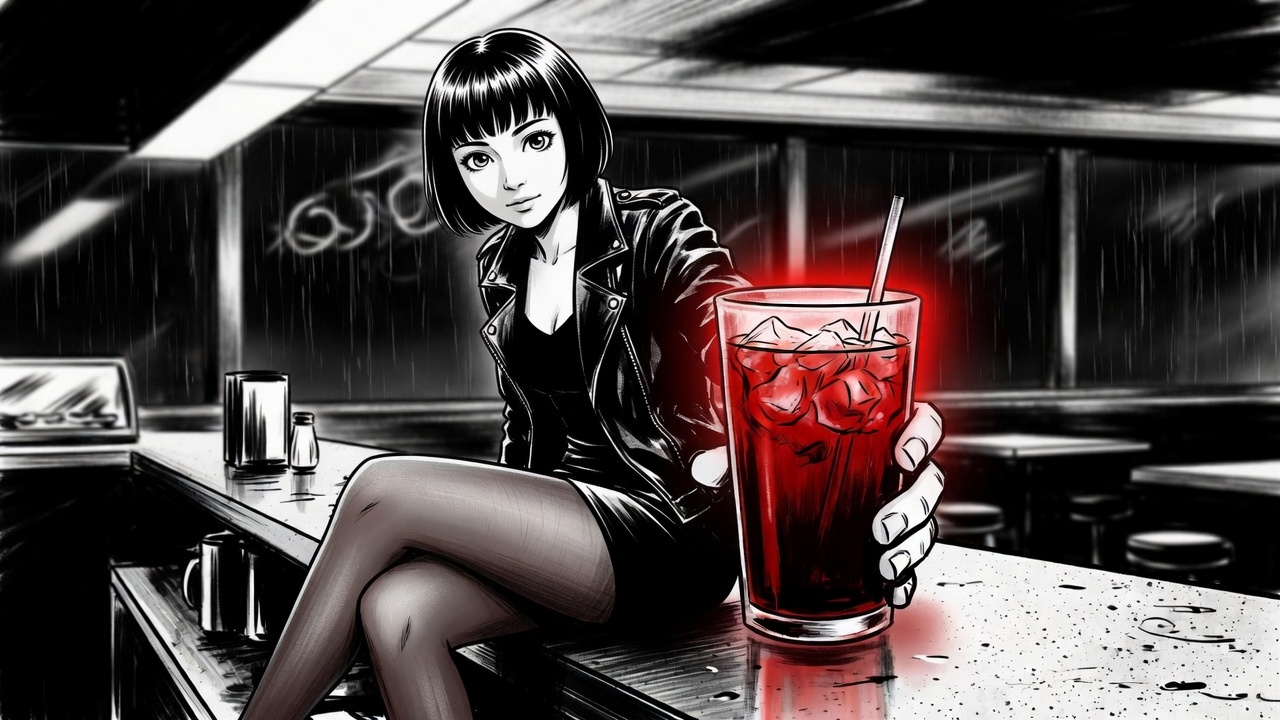
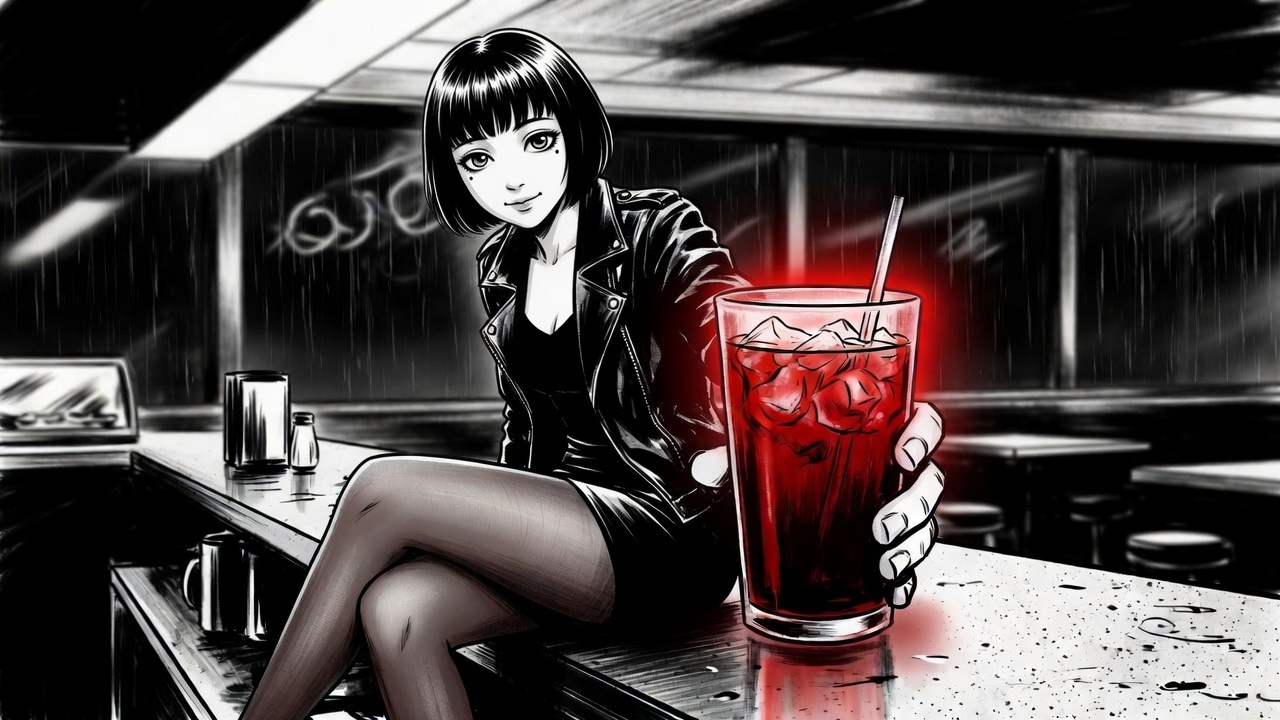
docs: 封面改成富江的脸

Changed region(s): [[0.3438, 0.1528, 0.4375, 0.3056], [0.4062, 0.4278, 0.4375, 0.4583], [0.3438, 0.0917, 0.375, 0.1222]]

diff --git a/docs/readme-preview.html b/docs/readme-preview.html
@@ -1,5 +1,5 @@
 <!doctype html><html lang="zh-CN"><head><meta charset="utf-8"><meta name="viewport" content="width=device-width,initial-scale=1"><title>冷咖啡 · 仓库主页新版预览</title><style>*{box-sizing:border-box}body{margin:0;color:#1f2328;background:#fff;font:14px/1.65 -apple-system,BlinkMacSystemFont,"Segoe UI","Microsoft YaHei",sans-serif}a{color:#0969da;text-decoration:none}a:hover{text-decoration:underline}.appbar{background:#f6f8fa;border-bottom:1px solid #d1d9e0;padding:18px 30px;display:flex;justify-content:space-between;align-items:center;gap:20px}.repo-name{font-size:14px;font-weight:600}.preview-label{font-size:12px;color:#656d76}.repo-tabs{background:#f6f8fa;padding:0 30px;display:flex;gap:25px;border-bottom:1px solid #d1d9e0}.repo-tabs span{padding:12px 0;font-size:13px}.repo-tabs .selected{border-bottom:2px solid #f78166}.container{max-width:1200px;padding:28px;margin:auto}.notice{border:1px solid #d1d9e0;border-radius:7px;background:#f6f8fa;padding:14px 18px;margin-bottom:24px;display:flex;justify-content:space-between;align-items:center;gap:20px}.notice a{background:#1f2328;color:#fff;border-radius:6px;padding:8px 14px;white-space:nowrap}.repo-grid{display:grid;grid-template-columns:minmax(0,880px) 220px;gap:25px}.readme{border:1px solid #d1d9e0;border-radius:7px;overflow:hidden;min-width:0}.readme-tab{font-size:12px;padding:12px 18px;border-bottom:1px solid #d1d9e0;font-weight:600}.markdown-body{padding:30px;font-size:14px}.markdown-body img{max-width:100%;height:auto}.markdown-body h1{font-size:30px;border-bottom:1px solid #d1d9e0;padding-bottom:12px;margin:22px 0 16px}.markdown-body h2{font-size:22px;border-bottom:1px solid #d1d9e0;padding-bottom:9px;margin:34px 0 16px;scroll-margin-top:20px}.markdown-body p{margin:12px 0 18px}.markdown-body sub{color:#656d76;font-size:11px}.markdown-body table{width:100%;border-collapse:collapse;font-size:12px;margin:20px 0}.markdown-body td,.markdown-body th{border:1px solid #d1d9e0;padding:12px}.markdown-body th{background:#f6f8fa}.markdown-body blockquote{margin:24px 0;border-left:4px solid #c92537;background:#fff7f7;padding:10px 18px;color:#4f353a}.markdown-body blockquote p{margin:7px 0}.markdown-body pre{padding:16px;border-radius:7px;background:#f6f8fa;overflow:auto}.markdown-body code{font-family:Consolas,monospace;font-size:12px}.markdown-body details{border:1px solid #d1d9e0;padding:14px;border-radius:7px;margin-top:20px}.markdown-body summary{cursor:pointer;font-weight:600}.markdown-body hr{border:0;border-top:1px solid #d1d9e0;margin-top:30px}.about h3{font-size:15px;margin:0 0 14px}.about p{font-size:13px;color:#656d76}.about .tag{display:inline-block;font-size:11px;background:#ddf4ff;color:#0969da;border-radius:14px;padding:3px 9px;margin:0 3px 7px 0}.about hr{border:0;border-top:1px solid #d1d9e0;margin:22px 0}.about a{display:block;margin-top:12px;font-size:12px}@media(max-width:900px){.repo-grid{grid-template-columns:1fr}.about{display:none}.container{padding:16px}.markdown-body{padding:20px}.appbar{padding:15px}.preview-label{display:none}}@media(max-width:520px){.markdown-body{padding:12px;font-size:12px}.markdown-body h1{font-size:23px}.markdown-body th,.markdown-body td{padding:5px;font-size:10px}.notice{display:block;font-size:12px}.notice a{display:inline-block;margin-top:10px}.repo-tabs{gap:14px;padding:0 16px}.repo-tabs span{font-size:11px}}</style></head><body><header class="appbar"><div class="repo-name">3641397194-wq / <strong>gpt6-Astra</strong></div><span class="preview-label">仓库主页排版预览 · 非 GitHub 在线页面</span></header><nav class="repo-tabs"><span class="selected">代码与说明</span><span>问题讨论</span><span>变更记录</span><span>项目文档</span></nav><div class="container"><div class="notice"><span><strong>三个系统同一套界面。</strong> Key 在 coldcoffeeai.com 买，贴进软件里。仓库里不放 Key。</span><a href="/workbench/">打开软件交互预览 ↗</a></div><div class="repo-grid"><article class="readme"><div class="readme-tab">README.md · 项目主页</div><div class="markdown-body"><div align="center">
-  <img src="/docs/assets/coldcoffee-cover-v5-6f509999f923.jpg" width="100%" alt="冷咖啡黑白漫画主视觉，夜班吧台和一杯冰美式" />
+  <img src="/docs/assets/coldcoffee-cover-v5-c18118b1aed9.jpg" width="100%" alt="冷咖啡黑白漫画主视觉，夜班吧台和一杯冰美式" />
   <h1>冷咖啡 · 破甲工作台</h1>
   <p><strong>九个软件 · 一键破甲 · 一键卸载 · Windows / macOS / Linux</strong></p>
   <p>打勾，按一下。打开软件后发「冷咖啡」。不想要了，按卸载，文件回到写入之前。</p>

diff --git a/docs/index.html b/docs/index.html
@@ -1,5 +1,5 @@
 <!doctype html><html lang="zh-CN"><head><meta charset="utf-8"><meta name="viewport" content="width=device-width,initial-scale=1"><title>冷咖啡 · 仓库主页新版预览</title><style>*{box-sizing:border-box}body{margin:0;color:#1f2328;background:#fff;font:14px/1.65 -apple-system,BlinkMacSystemFont,"Segoe UI","Microsoft YaHei",sans-serif}a{color:#0969da;text-decoration:none}a:hover{text-decoration:underline}.appbar{background:#f6f8fa;border-bottom:1px solid #d1d9e0;padding:18px 30px;display:flex;justify-content:space-between;align-items:center;gap:20px}.repo-name{font-size:14px;font-weight:600}.preview-label{font-size:12px;color:#656d76}.repo-tabs{background:#f6f8fa;padding:0 30px;display:flex;gap:25px;border-bottom:1px solid #d1d9e0}.repo-tabs span{padding:12px 0;font-size:13px}.repo-tabs .selected{border-bottom:2px solid #f78166}.container{max-width:1200px;padding:28px;margin:auto}.notice{border:1px solid #d1d9e0;border-radius:7px;background:#f6f8fa;padding:14px 18px;margin-bottom:24px;display:flex;justify-content:space-between;align-items:center;gap:20px}.notice a{background:#1f2328;color:#fff;border-radius:6px;padding:8px 14px;white-space:nowrap}.repo-grid{display:grid;grid-template-columns:minmax(0,880px) 220px;gap:25px}.readme{border:1px solid #d1d9e0;border-radius:7px;overflow:hidden;min-width:0}.readme-tab{font-size:12px;padding:12px 18px;border-bottom:1px solid #d1d9e0;font-weight:600}.markdown-body{padding:30px;font-size:14px}.markdown-body img{max-width:100%;height:auto}.markdown-body h1{font-size:30px;border-bottom:1px solid #d1d9e0;padding-bottom:12px;margin:22px 0 16px}.markdown-body h2{font-size:22px;border-bottom:1px solid #d1d9e0;padding-bottom:9px;margin:34px 0 16px;scroll-margin-top:20px}.markdown-body p{margin:12px 0 18px}.markdown-body sub{color:#656d76;font-size:11px}.markdown-body table{width:100%;border-collapse:collapse;font-size:12px;margin:20px 0}.markdown-body td,.markdown-body th{border:1px solid #d1d9e0;padding:12px}.markdown-body th{background:#f6f8fa}.markdown-body blockquote{margin:24px 0;border-left:4px solid #c92537;background:#fff7f7;padding:10px 18px;color:#4f353a}.markdown-body blockquote p{margin:7px 0}.markdown-body pre{padding:16px;border-radius:7px;background:#f6f8fa;overflow:auto}.markdown-body code{font-family:Consolas,monospace;font-size:12px}.markdown-body details{border:1px solid #d1d9e0;padding:14px;border-radius:7px;margin-top:20px}.markdown-body summary{cursor:pointer;font-weight:600}.markdown-body hr{border:0;border-top:1px solid #d1d9e0;margin-top:30px}.about h3{font-size:15px;margin:0 0 14px}.about p{font-size:13px;color:#656d76}.about .tag{display:inline-block;font-size:11px;background:#ddf4ff;color:#0969da;border-radius:14px;padding:3px 9px;margin:0 3px 7px 0}.about hr{border:0;border-top:1px solid #d1d9e0;margin:22px 0}.about a{display:block;margin-top:12px;font-size:12px}@media(max-width:900px){.repo-grid{grid-template-columns:1fr}.about{display:none}.container{padding:16px}.markdown-body{padding:20px}.appbar{padding:15px}.preview-label{display:none}}@media(max-width:520px){.markdown-body{padding:12px;font-size:12px}.markdown-body h1{font-size:23px}.markdown-body th,.markdown-body td{padding:5px;font-size:10px}.notice{display:block;font-size:12px}.notice a{display:inline-block;margin-top:10px}.repo-tabs{gap:14px;padding:0 16px}.repo-tabs span{font-size:11px}}</style></head><body><header class="appbar"><div class="repo-name">3641397194-wq / <strong>gpt6-Astra</strong></div><span class="preview-label">仓库主页排版预览 · 非 GitHub 在线页面</span></header><nav class="repo-tabs"><span class="selected">代码与说明</span><span>问题讨论</span><span>变更记录</span><span>项目文档</span></nav><div class="container"><div class="notice"><span><strong>三个系统同一套界面。</strong> Key 在 coldcoffeeai.com 买，贴进软件里。仓库里不放 Key。</span><a href="#上手使用">启动软件：查看步骤 ↓</a></div><div class="repo-grid"><article class="readme"><div class="readme-tab">README.md · 项目主页</div><div class="markdown-body"><div align="center">
-  <img src="assets/coldcoffee-cover-v5-6f509999f923.jpg" width="100%" alt="冷咖啡黑白漫画主视觉，夜班吧台和一杯冰美式" />
+  <img src="assets/coldcoffee-cover-v5-c18118b1aed9.jpg" width="100%" alt="冷咖啡黑白漫画主视觉，夜班吧台和一杯冰美式" />
   <h1>冷咖啡 · 破甲工作台</h1>
   <p><strong>九个软件 · 一键破甲 · 一键卸载 · Windows / macOS / Linux</strong></p>
   <p>打勾，按一下。打开软件后发「冷咖啡」。不想要了，按卸载，文件回到写入之前。</p>

diff --git a/README.md b/README.md
@@ -1,5 +1,5 @@
 <div align="center">
-  <img src="docs/assets/coldcoffee-cover-v5-6f509999f923.jpg" width="100%" alt="冷咖啡黑白漫画主视觉，夜班吧台和一杯冰美式" />
+  <img src="docs/assets/coldcoffee-cover-v5-c18118b1aed9.jpg" width="100%" alt="冷咖啡黑白漫画主视觉，夜班吧台和一杯冰美式" />
   <h1>冷咖啡 · 破甲工作台</h1>
   <p><strong>九个软件 · 一键破甲 · 一键卸载 · Windows / macOS / Linux</strong></p>
   <p>打勾，按一下。打开软件后发「冷咖啡」。不想要了，按卸载，文件回到写入之前。</p>
